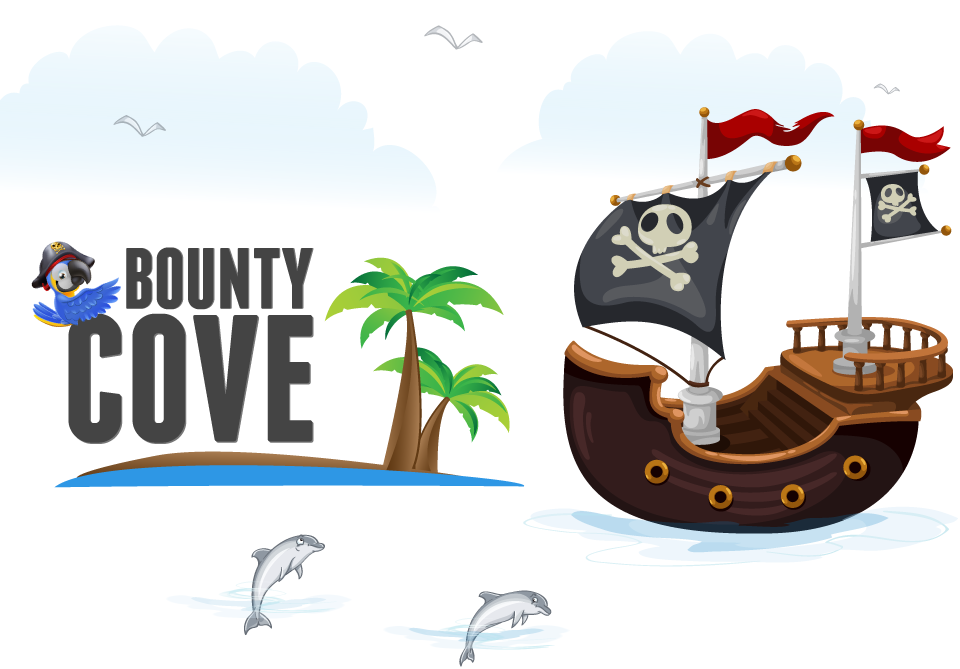
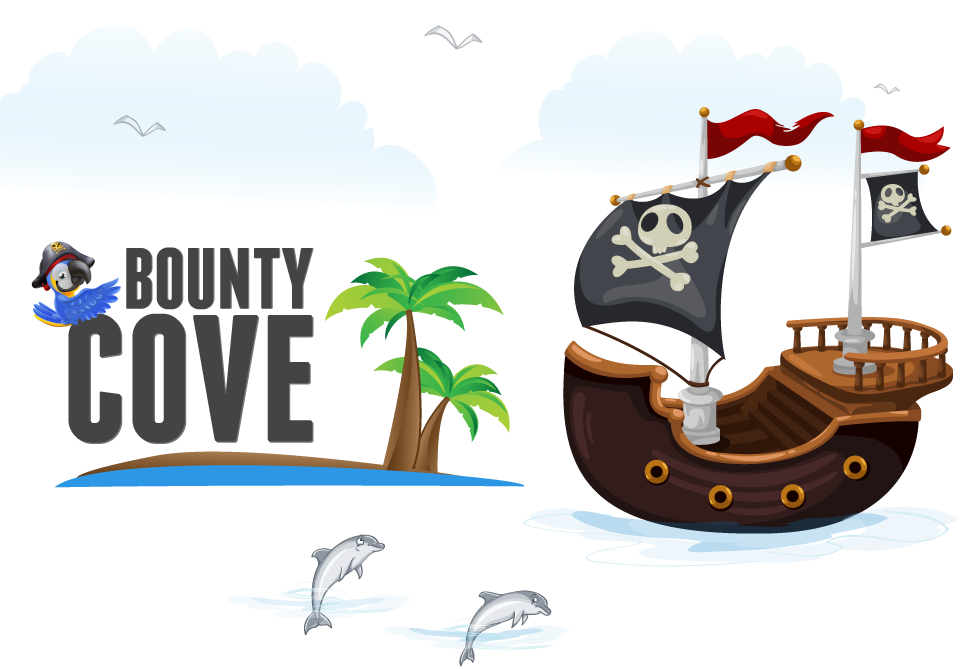
add login signup buttons to index

Changed region(s): [[0.2188, 0.7773, 0.4062, 0.9567]]

diff --git a/app/assets/stylesheets/index.css b/app/assets/stylesheets/index.css
@@ -24,11 +24,46 @@ form,textarea,input { margin: 0; padding: 0;}
   background-position: center;
   width: 100%;
   height: 100%;
-  z-index: 9999;
+  z-index: 9998;
   position: relative;
-  top: 1%;
+  /*top: 0%;*/
 }
  
+
+
+.above_buttons {
+  position: relative;
+  z-index: 9999;
+  width: 30%;
+  bottom: 33%;
+  margin-left: 19%;
+  margin-top: 3%;
+}
+
+.above_buttons li {
+  display: inline;
+  margin-top: 5%;
+  text-align: center;
+}
+
+.above_buttons a {
+  /*width: 12%;*/
+  padding: 1%;
+}
+
+.signup_button,
+.login_button {
+  margin-top: 1%;
+  padding: 1%;
+  background: -moz-linear-gradient(left,  rgba(249,249,249,0.3) 0%, rgba(229,229,229,0) 66%, rgba(229,229,229,0) 67%); /* FF3.6+ */
+  background: -webkit-gradient(linear, left top, right top, color-stop(0%,rgba(249,249,249,0.3)), color-stop(66%,rgba(229,229,229,0)), color-stop(67%,rgba(229,229,229,0))); /* Chrome,Safari4+ */
+  background: -webkit-linear-gradient(left,  rgba(249,249,249,0.3) 0%,rgba(229,229,229,0) 66%,rgba(229,229,229,0) 67%); /* Chrome10+,Safari5.1+ */
+  background: -o-linear-gradient(left,  rgba(249,249,249,0.3) 0%,rgba(229,229,229,0) 66%,rgba(229,229,229,0) 67%); /* Opera 11.10+ */
+  background: -ms-linear-gradient(left,  rgba(249,249,249,0.3) 0%,rgba(229,229,229,0) 66%,rgba(229,229,229,0) 67%); /* IE10+ */
+  background: linear-gradient(to right,  rgba(249,249,249,0.3) 0%,rgba(229,229,229,0) 66%,rgba(229,229,229,0) 67%); /* W3C */
+  filter: progid:DXImageTransform.Microsoft.gradient( startColorstr='#4df9f9f9', endColorstr='#00e5e5e5',GradientType=1 ); /* IE6-9 */
+}
+
 .banner_index_small {
   width: 100%;
   min-height: 50px;
@@ -38,10 +73,15 @@ form,textarea,input { margin: 0; padding: 0;}
 .break_1 {
   width: 100%;
   height: 18%;
-  background: #59b5e6;
+  background-image: url(IMAGE_URL), -webkit-gradient(linear, left top, left bottom, from(#59b5e6), to(#007EC2)); /* Saf4+, Chrome */
+  background-image: url(IMAGE_URL), -webkit-linear-gradient(top, #59b5e6, #007EC2); /* Chrome 10+, Saf5.1+ */
+  background-image: url(IMAGE_URL),    -moz-linear-gradient(top, #59b5e6, #007EC2); /* FF3.6+ */
+  background-image: url(IMAGE_URL),     -ms-linear-gradient(top, #59b5e6, #007EC2); /* IE10 */
+  background-image: url(IMAGE_URL),      -o-linear-gradient(top, #59b5e6, #007EC2); /* Opera 11.10+ */
+  background-image: url(IMAGE_URL),         linear-gradient(top, #59b5e6, #007EC2);
   z-index: 1;
   position: absolute;
-  top: 29%;
+  top: 30%;
   background-size: contain;
 }
 
@@ -92,19 +132,17 @@ form,textarea,input { margin: 0; padding: 0;}
 }
 
 
-.small_footer {
-  width: 100%;
-  height: 50px;
-}
 
-/*###################################*/
 
 .small_footer {
   width: 100%;
   height: 50px;
 }
 
-/*###################################*/
+
+
+
+
 
 .login input {
   border: 0;
@@ -128,8 +166,6 @@ form,textarea,input { margin: 0; padding: 0;}
  color: black;
 }
 
-/*###################################*/
-
 .login_small input {
   border: 0;
   background: #fff;
@@ -150,8 +186,6 @@ form,textarea,input { margin: 0; padding: 0;}
   font-family: 'Pathway Gothic One', sans-serif;
   color: #444444;
 }
-
-/*###################################*/
 
 label {
   font-size: 1.4em;

diff --git a/app/assets/stylesheets/user.css.scss b/app/assets/stylesheets/user.css.scss
@@ -5,7 +5,7 @@
 }
 
 * {
-  border: 1px solid red;
+  border: 0px solid red;
 }
 
 
